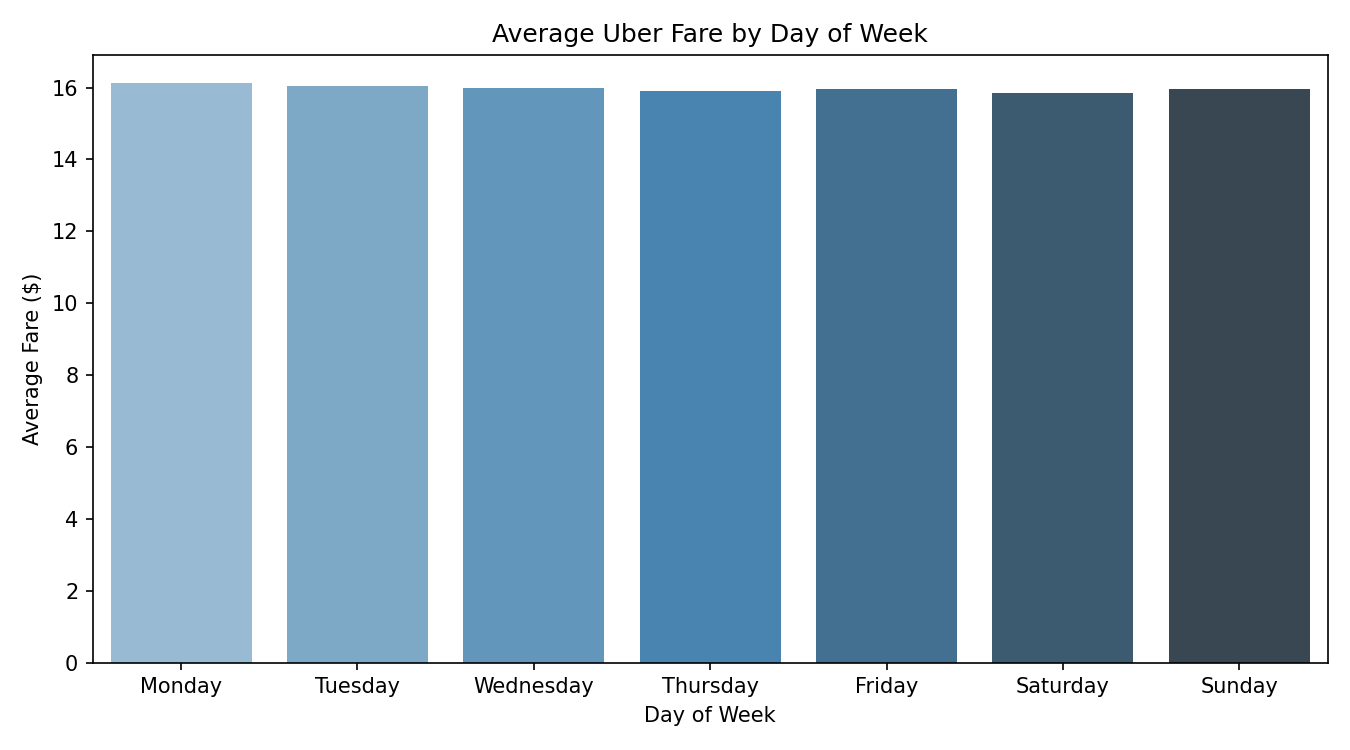
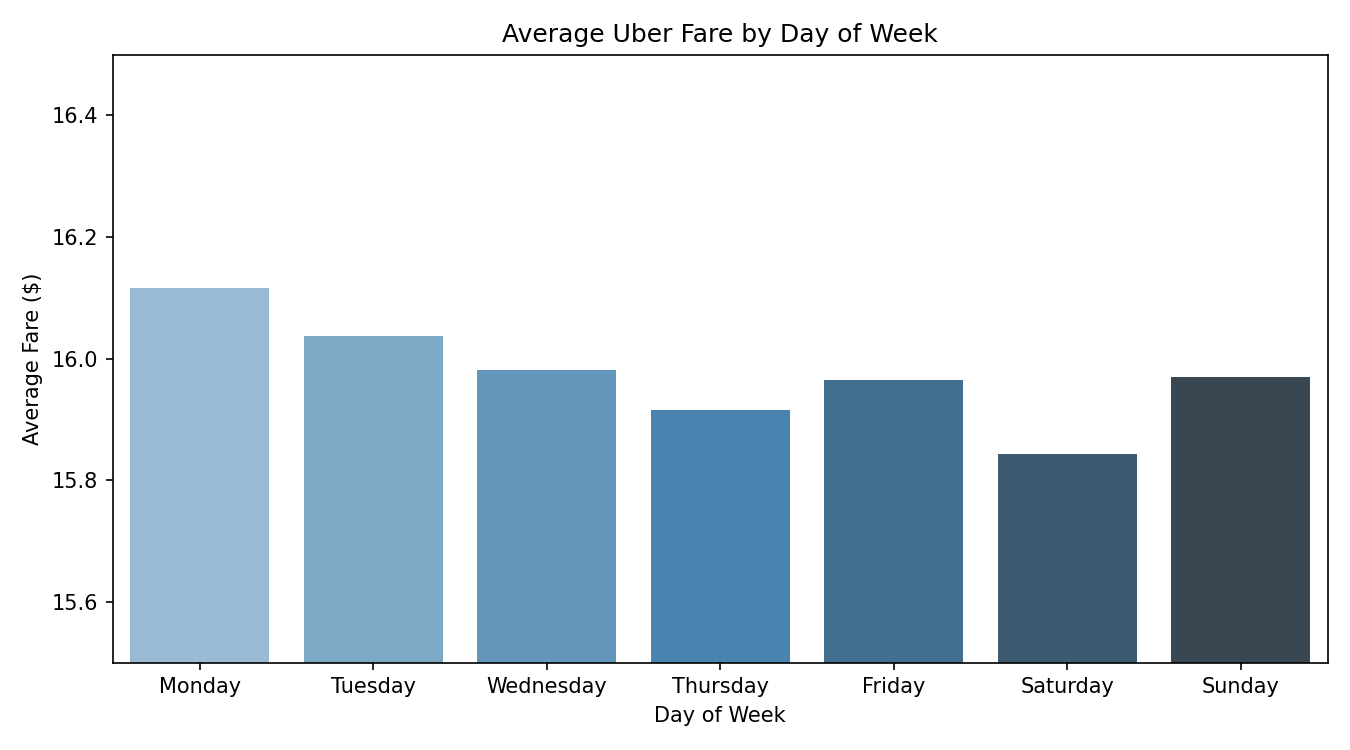
final changes

diff --git a/graphs.py b/graphs.py
@@ -13,6 +13,11 @@ df["pickup_time"] = pd.to_datetime(df["pickup_time"])
 df["hour"] = df["pickup_time"].dt.hour
 df["day_of_week"] = df["pickup_time"].dt.day_name()
 
+# print out some cool data points 
+print("Highest fare:", df["fare_amount"].max()) #highest fare
+print("Lowest fare:", df["fare_amount"].min()) #lowest fare
+print("Average fare:", df["fare_amount"].mean().round(2)) #average fare
+
 os.makedirs("outputs", exist_ok=True)
 
 # ── Graph 1: Average fare by hour (line chart) ────────────────────────────────
@@ -38,6 +43,7 @@ sns.barplot(data=daily_avg, x="day_of_week", y="fare_amount", palette="Blues_d")
 plt.title("Average Uber Fare by Day of Week")
 plt.xlabel("Day of Week")
 plt.ylabel("Average Fare ($)")
+plt.ylim(15.5, 16.5)  # zooms in so the small differences between days are actually visible
 plt.tight_layout()
 plt.savefig("outputs/avg_price_by_day.png", dpi=150)
 plt.close()
@@ -48,6 +54,7 @@ plt.hist(df["fare_amount"].dropna(), bins=40, color="#E8704A", edgecolor="white"
 plt.title("Distribution of Uber Fares")
 plt.xlabel("Fare ($)")
 plt.ylabel("Count")
+plt.xlim(0, df["fare_amount"].quantile(0.99))  # cuts off the stretched empty space on the right
 plt.tight_layout()
 plt.savefig("outputs/price_distribution.png", dpi=150)
 plt.close()
